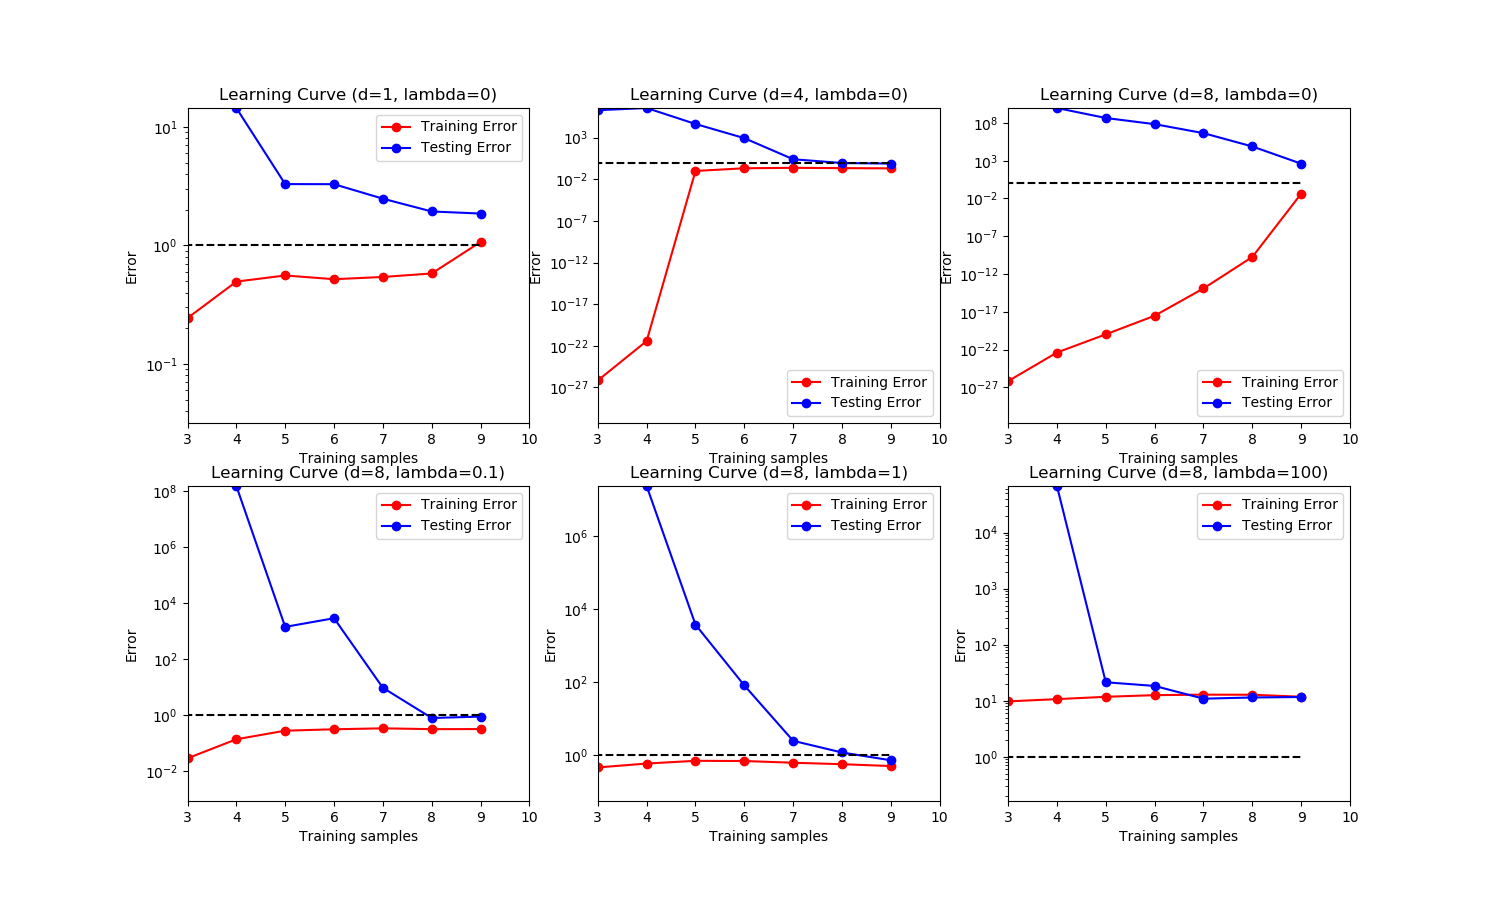
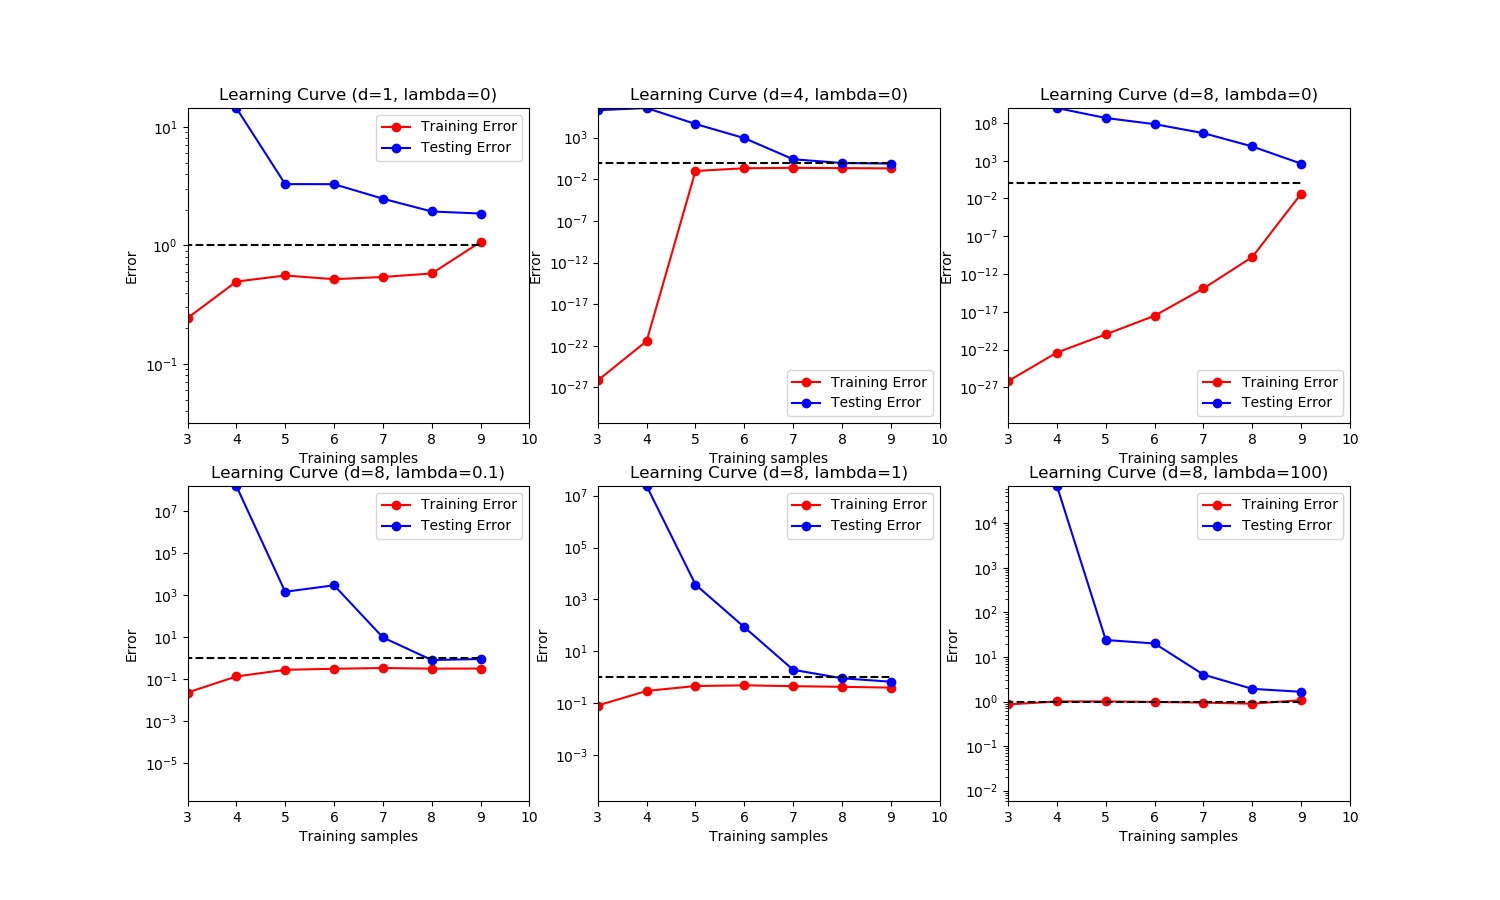
Code fixes to regularization matrix. Updating graphs.

diff --git a/HW1/HW1_code_solutions/polyreg.py b/HW1/HW1_code_solutions/polyreg.py
@@ -92,6 +92,7 @@ class PolynomialRegression:
 
         # construct reg matrix
         reg_matrix = self.regLambda * np.eye(self.degree+1)
+        reg_matrix[0,0] = 0
 
         # analytical solution (X'X + regMatrix)^-1 X' y
         self.theta = np.linalg.pinv(X_.T.dot(X_) + reg_matrix).dot(X_.T).dot(y)
@@ -156,8 +157,6 @@ def learningCurve(Xtrain, Ytrain, Xtest, Ytest, reg_lambda, degree):
         fitTrain = regressModel.predict(data)
         fitTest = regressModel.predict(Xtest)
 
-        if reg_lambda == 100:
-            breakpoint()
         errorTrain[i] = 1/len(data) * np.sum((fitTrain-labels)**2)
         errorTest[i] = 1/len(Xtest) * np.sum((fitTest-Ytest)**2)
 
